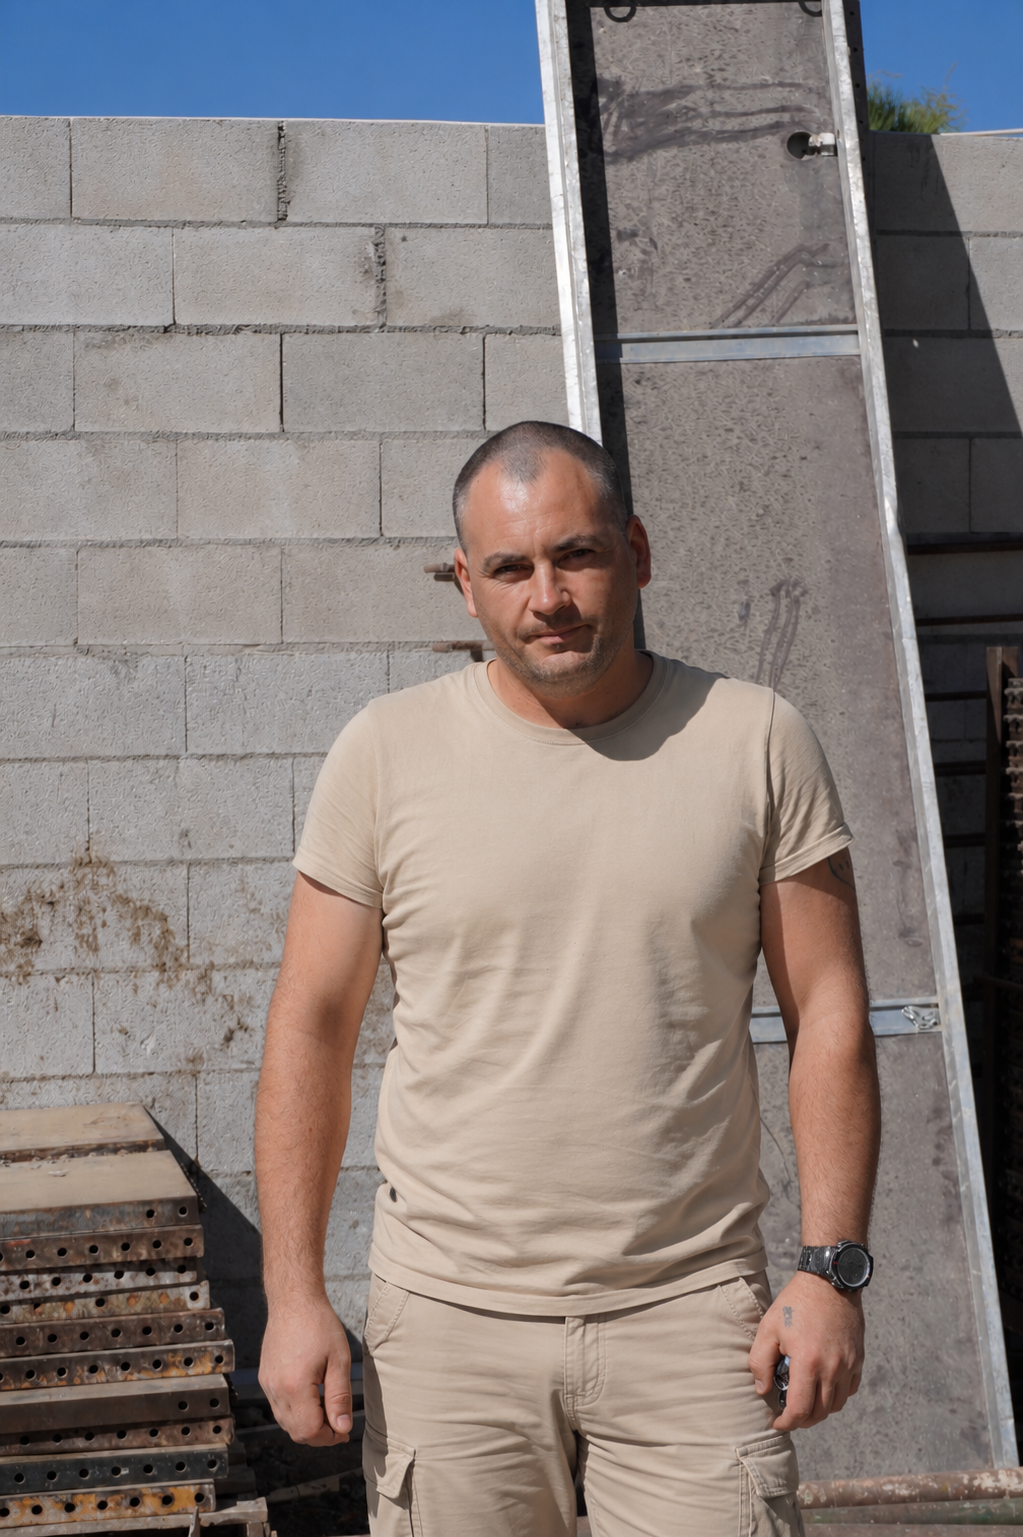
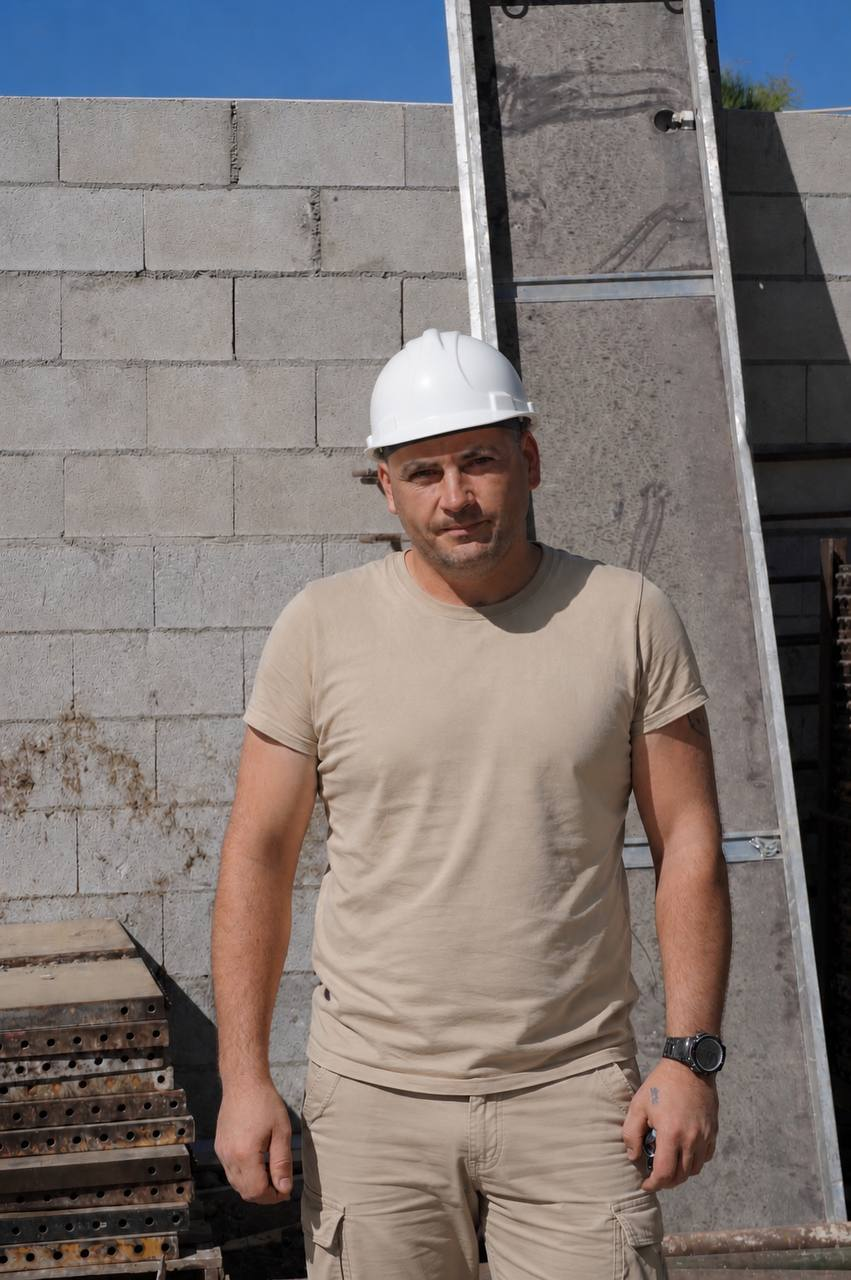
Add team member

diff --git a/data/team.ts b/data/team.ts
@@ -10,92 +10,92 @@ export interface TeamMember {
 export const teamMembers: TeamMember[] = [
   {
     name: "Oleg Nazarov",
-    position: "CEO de Structonix",
+    positionKey: "olegNazarov",
     image: "/team/OlegFounderStructonix.jpg",
   },
   {
     name: "Dmitri Volkov",
-    position: "Jefe de obra Structonix",
+    positionKey: "dmitriVolkov",
     image: "/team/DmitriyStructonix_11.jpg",
   },
   {
     name: "Viktoria Bolshakova",
-    position: "Coordinacion y seguridad Structonix",
+    positionKey: "viktoriaBolshakova",
     image: "/team/ViktoriaStructonix.jpg",
   },
   {
     name: "Vasyl Matsur",
-    position: "Jefe de obra Structonix",
+    positionKey: "vasylMatsur",
     image: "/team/VasylMatsurStructonix.jpeg",
-  },
-  {
-    name: "Denis Yelnikov",
-    position: "Ingeniero, energias renovables",
-    image: "/team/DenisYelnikov.webp",
-  },
-  {
-    name: "Viktor Osinskiy",
-    position: "Encargado Structonix",
-    image: "/team/ViktorOsinskiy.JPG",
-  },
-  {
-    name: "Ruslan Horbachev",
-    position: "Encargado Structonix",
-    image: "/team/RuslanHorbachev.jpg",
-  },
-  {
-    name: "Smuk Volodimir",
-    position: "Maquinista Structonix",
-    image: "/team/VolodimirSmukStructonix.jpg",
-  },
-  {
-    name: "Antonio Vicente Barona",
-    position: "Arquitecto Structonix",
-    image: "/team/AntonioVicenteBarona.jpg",
-  },
-  {
-    name: "Irene Castro Tamarit",
-    position: "Tecnico en arquitectura Structonix",
-    image: "/team/IreneCastroTamarit.jpeg",
-  },
-  {
-    name: "Alexey Kuznetsov",
-    position: "Director de Technologias de la informacion",
-    image: "/team/StructonixHeadofITjpg.jpg",
-  },
-  {
-    name: "Oleksandr Besarab",
-    position: "Albanil de Structonix",
-    image: "/team/Oleksandr%20Besarab.JPG",
-  },
-  {
-    name: "Volodymir Chuenko",
-    position: "Albanil de Structonix",
-    image: "/team/VolodymirChuenko.jpg",
-  },
-  {
-    name: "Andrei Chervatiuk",
-    position: "Albanil de Structonix",
-    image: "/team/AndreiChervatiukAlbanilStructonix.jpeg",
-  },
-  {
-    name: "Vitalyi Voytenko",
-    position: "Albanil de Structonix",
-    image: "/team/VitalyiVoytenkoalbanilStructonix.jpg",
-  },
-  {
-    name: "Oleksander Dudchenko",
-    position: "Albanil de Structonix",
-    image: "/team/OleksanderDudchenkoAlbanilStructonix.JPG",
-  },
-  {
-    name: "Tolkachev Yakiv",
-    position: "Albanil de Structonix",
-    image: "/team/TolkachevYakivAlbanilStructonix.JPG",
   },
   {
     name: "Oleg Saranchuk",
     positionKey: "olegSaranchuk",
     image: "/team/OlegSaranchuk.JPG",
+  },
+  {
+    name: "Denis Yelnikov",
+    positionKey: "denisYelnikov",
+    image: "/team/DenisYelnikov.webp",
+  },
+  {
+    name: "Viktor Osinskiy",
+    positionKey: "viktorOsinskiy",
+    image: "/team/ViktorOsinskiy.JPG",
+  },
+  {
+    name: "Ruslan Horbachev",
+    positionKey: "ruslanHorbachev",
+    image: "/team/RuslanHorbachev.jpg",
+  },
+  {
+    name: "Smuk Volodimir",
+    positionKey: "smukVolodimir",
+    image: "/team/VolodimirSmukStructonix.jpg",
+  },
+  {
+    name: "Antonio Vicente Barona",
+    positionKey: "antonioVicenteBarona",
+    image: "/team/AntonioVicenteBarona.jpg",
+  },
+  {
+    name: "Irene Castro Tamarit",
+    positionKey: "ireneCastroTamarit",
+    image: "/team/IreneCastroTamarit.jpeg",
+  },
+  {
+    name: "Alexey Kuznetsov",
+    positionKey: "alexeyKuznetsov",
+    image: "/team/StructonixHeadofITjpg.jpg",
+  },
+  {
+    name: "Oleksandr Besarab",
+    positionKey: "albanilStructonix",
+    image: "/team/Oleksandr%20Besarab.JPG",
+  },
+  {
+    name: "Volodymir Chuenko",
+    positionKey: "albanilStructonix",
+    image: "/team/VolodymirChuenko.jpg",
+  },
+  {
+    name: "Andrei Chervatiuk",
+    positionKey: "albanilStructonix",
+    image: "/team/AndreiChervatiukAlbanilStructonix.jpeg",
+  },
+  {
+    name: "Vitalyi Voytenko",
+    positionKey: "albanilStructonix",
+    image: "/team/VitalyiVoytenkoalbanilStructonix.jpg",
+  },
+  {
+    name: "Oleksander Dudchenko",
+    positionKey: "albanilStructonix",
+    image: "/team/OleksanderDudchenkoAlbanilStructonix.JPG",
+  },
+  {
+    name: "Tolkachev Yakiv",
+    positionKey: "albanilStructonix",
+    image: "/team/TolkachevYakivAlbanilStructonix.JPG",
   },
 ];
